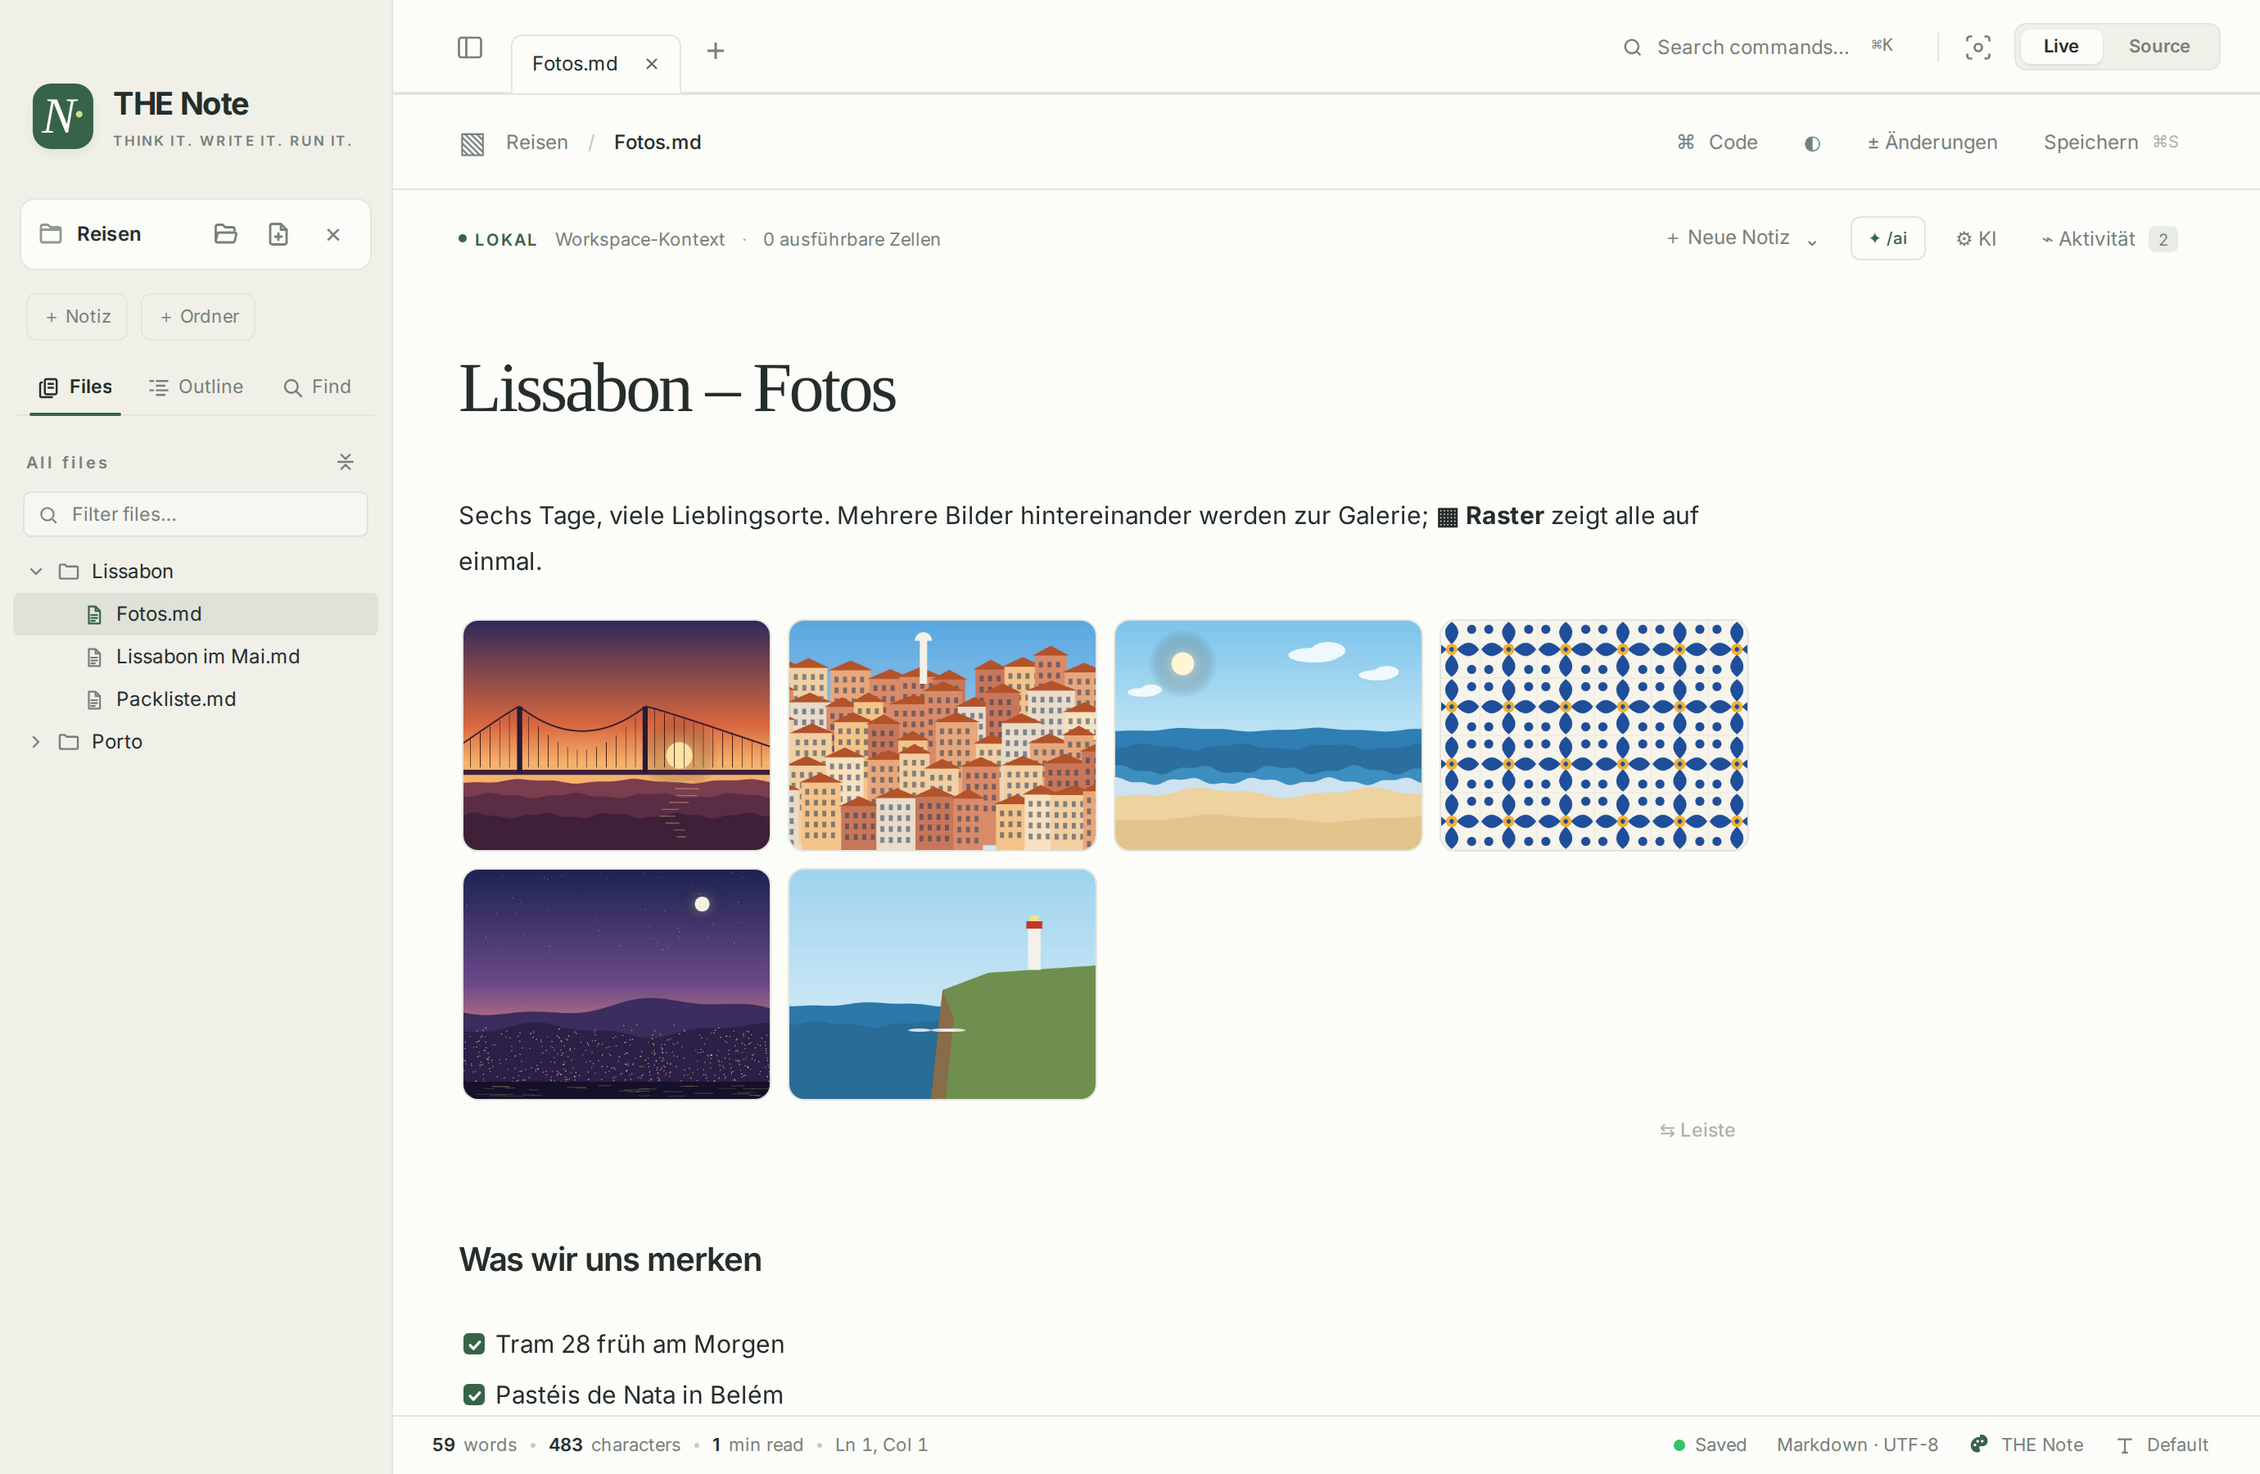
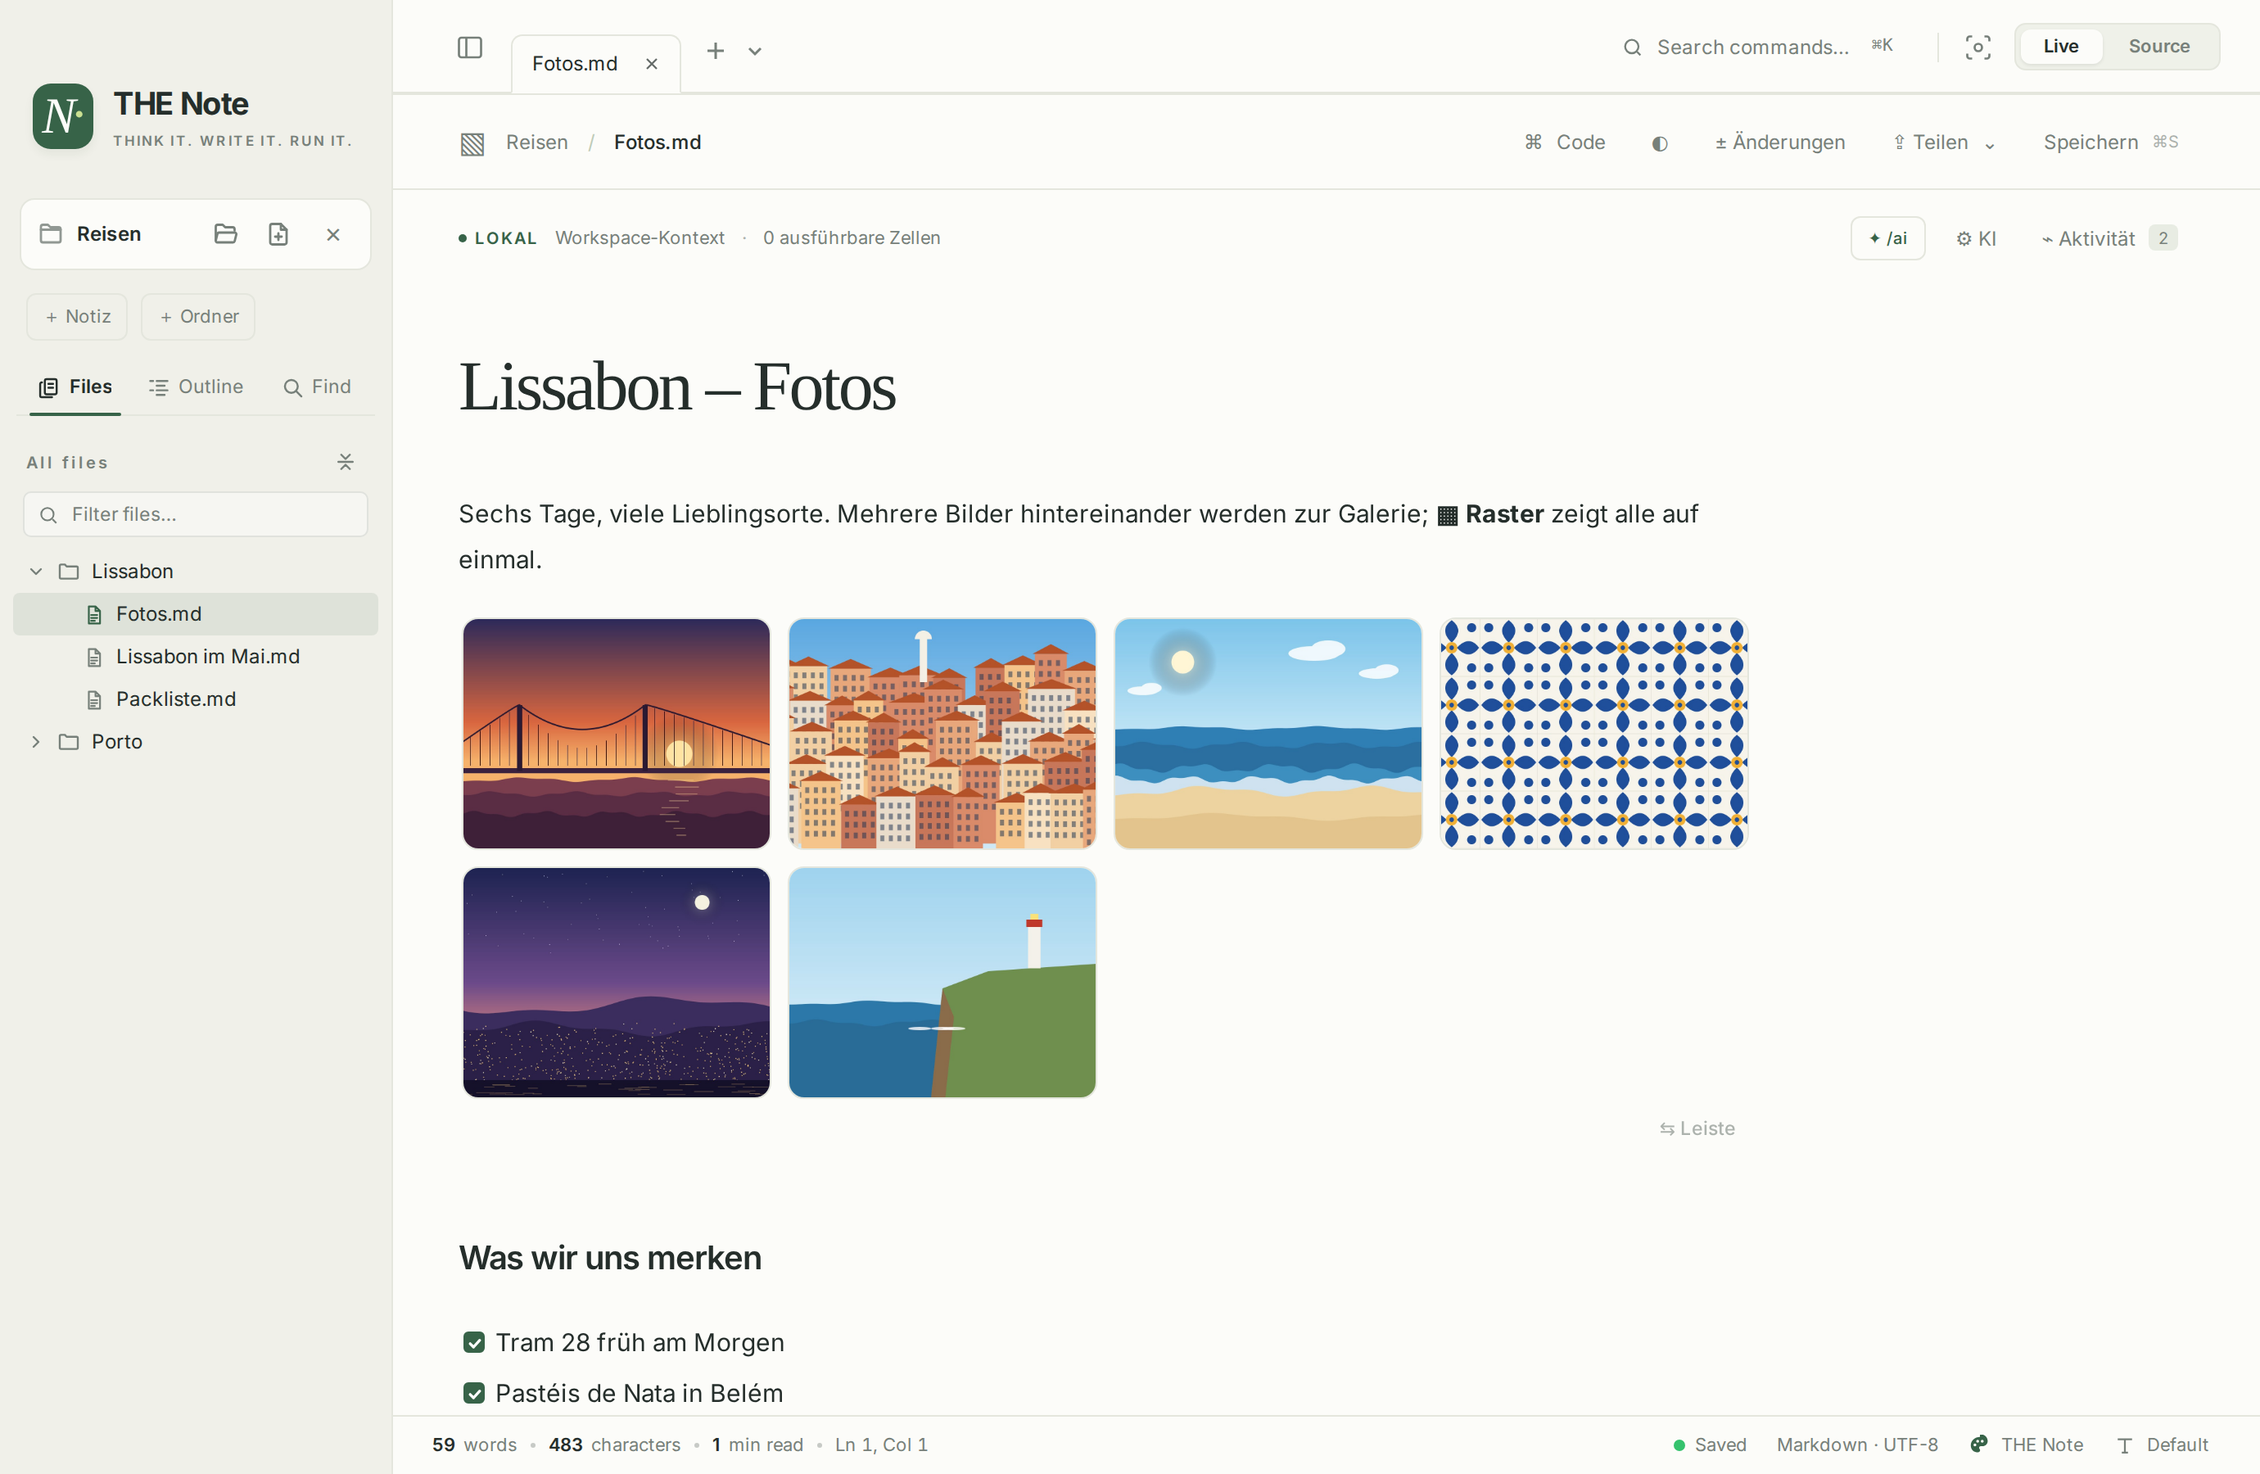
Screenshots, README and website for the slash building blocks
- New screenshots: slash-menu (quick actions and focus & calm), moderation
  (drawn speaking order, dot voting, ROTI), focus (daily focus and box
  breathing with real output, sleep turned off) and quick-actions (/todos
  on meeting notes, fixture answer).
- README (DE/EN): sections "Bausteine mit /", "Moderation", "Fokus & Ruhe",
  "KI-Schnellaktionen" with the shots.
- Website: story chapter 04 "Ein Baustein für jeden Moment" (7 chapters),
  export card becomes "Drucken & Teilen".
- Snippets: empty placeholders (daily focus tasks, gratitude, meeting,
  5 Whys) carry visible text so they render as checkboxes and list items.

Claude-Session: https://claude.ai/code/session_01PBPxRjFcZyVmERNnotm52s

diff --git a/site/index.html b/site/index.html
@@ -70,19 +70,21 @@
             <img class="is-active" data-story-shot="1" src="{{root}}assets/note-light.png" width="2760" height="2600" alt="">
             <img data-story-shot="2" src="{{root}}assets/folders-and-date.png" width="2760" height="1800" alt="">
             <img data-story-shot="3" src="{{root}}assets/gallery.png" width="2760" height="1800" alt="">
-            <img data-story-shot="4" src="{{root}}assets/unsaved-diff.png" width="2760" height="1800" alt="">
-            <img data-story-shot="5" src="{{root}}assets/inline-ai.png" width="2760" height="1800" alt="">
-            <img data-story-shot="6" src="{{root}}assets/note-dark.png" width="2760" height="2600" alt="">
+            <img data-story-shot="4" src="{{root}}assets/slash-menu.png" width="2760" height="1800" alt="">
+            <img data-story-shot="5" src="{{root}}assets/unsaved-diff.png" width="2760" height="1800" alt="">
+            <img data-story-shot="6" src="{{root}}assets/inline-ai.png" width="2760" height="1800" alt="">
+            <img data-story-shot="7" src="{{root}}assets/note-dark.png" width="2760" height="2600" alt="">
           </div>
-          <div class="story-progress"><i data-story-dot="1" class="is-active"></i><i data-story-dot="2"></i><i data-story-dot="3"></i><i data-story-dot="4"></i><i data-story-dot="5"></i><i data-story-dot="6"></i></div>
+          <div class="story-progress"><i data-story-dot="1" class="is-active"></i><i data-story-dot="2"></i><i data-story-dot="3"></i><i data-story-dot="4"></i><i data-story-dot="5"></i><i data-story-dot="6"></i><i data-story-dot="7"></i></div>
         </div>
         <ol class="story-steps">
           <li class="story-step is-active" data-step="1"><span class="step-no">01</span><h3>{{story.s1h}}</h3><p>{{story.s1p}}</p><ul class="chips">{{story.s1c}}</ul><img class="step-shot" src="{{root}}assets/note-light.png" width="2760" height="2600" loading="lazy" alt="{{story.s1alt}}"></li>
           <li class="story-step" data-step="2"><span class="step-no">02</span><h3>{{story.s2h}}</h3><p>{{story.s2p}}</p><ul class="chips">{{story.s2c}}</ul><img class="step-shot" src="{{root}}assets/folders-and-date.png" width="2760" height="1800" loading="lazy" alt="{{story.s2alt}}"></li>
           <li class="story-step" data-step="3"><span class="step-no">03</span><h3>{{story.s3h}}</h3><p>{{story.s3p}}</p><ul class="chips">{{story.s3c}}</ul><img class="step-shot" src="{{root}}assets/gallery.png" width="2760" height="1800" loading="lazy" alt="{{story.s3alt}}"></li>
-          <li class="story-step" data-step="4"><span class="step-no">04</span><h3>{{story.s4h}}</h3><p>{{story.s4p}}</p><ul class="chips">{{story.s4c}}</ul><img class="step-shot" src="{{root}}assets/unsaved-diff.png" width="2760" height="1800" loading="lazy" alt="{{story.s4alt}}"></li>
-          <li class="story-step" data-step="5"><span class="step-no">05</span><h3>{{story.s5h}}</h3><p>{{story.s5p}}</p><ul class="chips">{{story.s5c}}</ul><img class="step-shot" src="{{root}}assets/inline-ai.png" width="2760" height="1800" loading="lazy" alt="{{story.s5alt}}"></li>
-          <li class="story-step" data-step="6"><span class="step-no">06</span><h3>{{story.s6h}}</h3><p>{{story.s6p}}</p><ul class="chips">{{story.s6c}}</ul><img class="step-shot" src="{{root}}assets/note-dark.png" width="2760" height="2600" loading="lazy" alt="{{story.s6alt}}"></li>
+          <li class="story-step" data-step="4"><span class="step-no">04</span><h3>{{story.s4h}}</h3><p>{{story.s4p}}</p><ul class="chips">{{story.s4c}}</ul><img class="step-shot" src="{{root}}assets/slash-menu.png" width="2760" height="1800" loading="lazy" alt="{{story.s4alt}}"></li>
+          <li class="story-step" data-step="5"><span class="step-no">05</span><h3>{{story.s5h}}</h3><p>{{story.s5p}}</p><ul class="chips">{{story.s5c}}</ul><img class="step-shot" src="{{root}}assets/unsaved-diff.png" width="2760" height="1800" loading="lazy" alt="{{story.s5alt}}"></li>
+          <li class="story-step" data-step="6"><span class="step-no">06</span><h3>{{story.s6h}}</h3><p>{{story.s6p}}</p><ul class="chips">{{story.s6c}}</ul><img class="step-shot" src="{{root}}assets/inline-ai.png" width="2760" height="1800" loading="lazy" alt="{{story.s6alt}}"></li>
+          <li class="story-step" data-step="7"><span class="step-no">07</span><h3>{{story.s7h}}</h3><p>{{story.s7p}}</p><ul class="chips">{{story.s7c}}</ul><img class="step-shot" src="{{root}}assets/note-dark.png" width="2760" height="2600" loading="lazy" alt="{{story.s7alt}}"></li>
         </ol>
       </div>
     </div>

diff --git a/src/snippets.ts b/src/snippets.ts
@@ -69,23 +69,23 @@ print("Gut gemacht. Spür kurz nach: Wie geht es dir jetzt?")
 
 const CHECKIN = () => `## ☀ Tagesfokus · ${today()}
 
-**Das Wichtigste heute:**
+**Das Wichtigste heute:** …
 
-- [ ]
-- [ ]
-- [ ]
+- [ ] Eine Sache, die heute zählt
+- [ ] Noch etwas Kleines
+- [ ] Und eine Kleinigkeit
 
 **Wie geht es mir?** 😌 gut · 😐 geht so · 😣 angespannt
 
-**Was lasse ich heute bewusst weg?** `;
+**Was lasse ich heute bewusst weg?** …`;
 
 const GRATITUDE = `## 🌱 Drei gute Dinge
 
 Kleine Dinge zählen. Was war heute gut, und was hast du dazu beigetragen?
 
-1.
-2.
-3.
+1. …
+2. …
+3. …
 
 > Warum war das gut?`;
 
@@ -101,15 +101,15 @@ Wenn der Kopf zu voll ist: Sinne der Reihe nach durchgehen und abhaken.
 
 const MEETING = () => `## Besprechung · ${today()}
 
-**Dabei:**
+**Dabei:** …
 
 ### Agenda
 
-1.
+1. …
 
 ### Entscheidungen
 
--
+- …
 
 ### Aufgaben
 
@@ -233,7 +233,7 @@ const FIVE_WHYS = `## ❓ 5 × Warum
 
 Von einem Symptom zur Ursache: fünfmal nachfragen, jedes Mal auf die vorige Antwort.
 
-**Problem:** 
+**Problem:** …
 
 1. Warum? 
 2. Warum? 
@@ -241,7 +241,7 @@ Von einem Symptom zur Ursache: fünfmal nachfragen, jedes Mal auf die vorige Ant
 4. Warum? 
 5. Warum? 
 
-**Ursache:** 
+**Ursache:** …
 
 - [ ] Maßnahme`;
 
@@ -262,7 +262,7 @@ Themen sammeln, per Punkt abstimmen, dann der Reihe nach je 5 Minuten. Daumen ho
 |  |  |  |
 |  |  |  |
 
-**Erkenntnisse:** `;
+**Erkenntnisse:** …`;
 
 const ROTI = `## 📈 ROTI: Hat sich die Zeit gelohnt?
 

diff --git a/README.md b/README.md
@@ -78,6 +78,30 @@ Screenshots mit ⌘V einfügen: Sie landen neben der Notiz und sind sofort zu se
 
 ![Großansicht eines Bildes mit Vorschaubildern der ganzen Galerie](docs/screenshots/image-viewer.png)
 
+### Bausteine mit /
+
+Tippe **/** in eine leere Zeile: KI-Schnellaktionen, Fokus & Ruhe, Werkzeuge, Moderation und der Spielplatz landen direkt an der Schreibstelle.
+
+![Das Slash-Menü mit KI-Schnellaktionen und Bausteinen für Fokus & Ruhe](docs/screenshots/slash-menu.png)
+
+### Moderation
+
+Reihenfolge auslosen, Punkte vergeben, ROTI einsammeln: Die Tabellen rechnen selbst, die Codeblöcke laufen mit einem Klick. Alle zehn Methoden stecken auch in der Vorlage **Moderationskoffer**.
+
+![Ein Strategie-Workshop mit ausgeloster Reihenfolge und Punkte-Abstimmung](docs/screenshots/moderation.png)
+
+### Fokus & Ruhe
+
+Tagesfokus ausfüllen, kurz durchatmen, dann eine Fokuszeit: Die Atemübung führt Runde für Runde durch, die Fokuszeit meldet sich am Ende mit einer Mac-Benachrichtigung.
+
+![Ein ausgefüllter Tagesfokus und die Box-Atmung mit ihrer Ausgabe](docs/screenshots/focus.png)
+
+### KI-Schnellaktionen
+
+**/todos** zieht aus einer Besprechung die Aufgaben heraus, mit Wer und Bis wann. Genauso fassen **/zusammenfassen**, **/schritte** und **/fragen** die Notiz zusammen. Erst „Übernehmen“ macht daraus normales Markdown.
+
+![Eine Besprechungsnotiz mit der KI-Schnellaktion To-dos und ihrem Entwurf](docs/screenshots/quick-actions.png)
+
 ### Änderungen vor dem Speichern
 
 ![Markdown-Diff mit roten Löschungen, grünen Ergänzungen und Zeilennummern](docs/screenshots/unsaved-diff.png)
@@ -86,7 +110,7 @@ Screenshots mit ⌘V einfügen: Sie landen neben der Notiz und sind sofort zu se
 
 ![Inline-KI mit Prompt und Markdown-Entwurf](docs/screenshots/inline-ai.png)
 
-Die Screenshots zeigen Beispiel- und Testnotizen; die Fotos sind gezeichnete Demo-Motive. Alle Code-Ausgaben wurden lokal mit `bash`, `python3` und `node` erzeugt; die KI-Antwort ist eine reproduzierbare Demo, dafür wurde kein externer Anbieter kontaktiert. Neu erzeugen: `node scripts/screenshots.mjs`.
+Die Screenshots zeigen Beispiel- und Testnotizen; die Fotos sind gezeichnete Demo-Motive. Alle Code-Ausgaben wurden lokal mit `bash`, `python3` und `node` erzeugt; die KI-Antworten sind reproduzierbare Demos, dafür wurde kein externer Anbieter kontaktiert. Neu erzeugen: `node scripts/screenshots.mjs`.
 
 ## Was zusammengeführt wurde
 

diff --git a/README.en.md b/README.en.md
@@ -80,6 +80,30 @@ Paste screenshots with ⌘V: they are saved next to the note and show right away
 
 ![Full-size view of a picture with thumbnails of the whole gallery](docs/screenshots/image-viewer.png)
 
+### Building blocks with /
+
+Type **/** on an empty line: AI quick actions, focus & calm, tools, facilitation and the playground land right at the caret.
+
+![The slash menu with AI quick actions and focus & calm blocks](docs/screenshots/slash-menu.png)
+
+### Facilitation
+
+Draw the speaking order, hand out dot votes, collect a ROTI: the tables do the maths, the code blocks run with one click. All ten methods are also in the **Moderationskoffer** (facilitation kit) template.
+
+![A strategy workshop with a drawn speaking order and dot voting](docs/screenshots/moderation.png)
+
+### Focus & calm
+
+Fill in your daily focus, take a breath, then start a focus session: the breathing exercise guides you round by round, the focus timer ends with a Mac notification.
+
+![A filled-in daily focus and box breathing with its output](docs/screenshots/focus.png)
+
+### AI quick actions
+
+**/todos** pulls the tasks out of a meeting, with who and by when. Likewise **/zusammenfassen** (summary), **/schritte** (next steps) and **/fragen** (open questions). Only "Übernehmen" (accept) turns the draft into plain Markdown.
+
+![A meeting note with the to-dos quick action and its draft](docs/screenshots/quick-actions.png)
+
 ### Changes before saving
 
 ![Markdown diff with red deletions, green additions and line numbers](docs/screenshots/unsaved-diff.png)
@@ -88,7 +112,7 @@ Paste screenshots with ⌘V: they are saved next to the note and show right away
 
 ![Inline AI with a prompt and a Markdown draft](docs/screenshots/inline-ai.png)
 
-The screenshots show example and test notes; the photos are painted demo scenes. All code output was produced locally with `bash`, `python3` and `node`; the AI answer is a reproducible demo, no external provider was contacted. Regenerate them with `node scripts/screenshots.mjs`.
+The screenshots show example and test notes; the photos are painted demo scenes. All code output was produced locally with `bash`, `python3` and `node`; the AI answers are reproducible demos, no external provider was contacted. Regenerate them with `node scripts/screenshots.mjs`.
 
 ## What was merged
 

diff --git a/CHANGELOG.md b/CHANGELOG.md
@@ -4,6 +4,7 @@ The entries below reconstruct the development milestones from the conversation a
 
 ## Unreleased
 
+- **Screenshots, README and website for the building blocks:** new shots of the slash menu, moderation, focus & calm and the /todos quick action; README sections for each; the website story gains chapter 04 „Ein Baustein für jeden Moment“, and the export card becomes „Drucken & Teilen“. Empty placeholders in the daily focus, gratitude, meeting and 5-Whys blocks now carry visible text, so they render as checkboxes and list items.
 - **Building blocks in the slash menu:** focus timer (Pomodoro), box breathing, daily focus, three good things, 5-4-3-2-1 grounding, meeting notes, a decision matrix with formulas, the Werkzeugkasten helpers and the Spielplatz pieces insert into the open note (one undo step). Werkzeugkasten/Spielplatz sections are read from the example notes, so the code exists once.
 - **AI quick actions:** „Notiz zusammenfassen“, „To-dos herausziehen“ (who · what · by when), „Nächste Schritte ableiten“ and „Offene Fragen sammeln“ insert a prompt that starts right away with the note as context. They have their own group in the slash menu.
 - **Moderation:** check-in question, random speaking order, agenda timebox with notifications, Crazy 8s, dot voting and ROTI (formula tables that count), Lean Coffee, 5 Whys, retrospective and rose · bud · thorn as slash blocks, and all of them as the „Moderationskoffer“ template.

diff --git a/docs/screenshots/README.md b/docs/screenshots/README.md
@@ -8,6 +8,10 @@ Screenshots of THE Note 0.2.9 with example and fixture notes, not private docume
 - `folders-and-date.png`: notes folder with sub folders, nested notes and the inline date picker.
 - `gallery.png`: a travel note whose six pictures form a gallery in grid layout.
 - `image-viewer.png`: the full-window image viewer with the gallery's thumbnails.
+- `slash-menu.png`: the slash menu in a workshop note, scrolled to the AI quick actions and the focus & calm blocks.
+- `moderation.png`: a workshop note with a drawn speaking order (real output), dot voting and ROTI tables.
+- `focus.png`: a filled-in daily focus and the box breathing exercise with its real output (run with `time.sleep` turned off, so it takes no minute).
+- `quick-actions.png`: meeting notes with the `/todos` quick action; the draft is a fixture, no API request.
 - `unsaved-diff.png`: saved-text comparison with additions and deletions.
 - `inline-ai.png`: raw Markdown draft before acceptance. The model name and response are explicit demo fixtures; no API key or external request is used.
 
